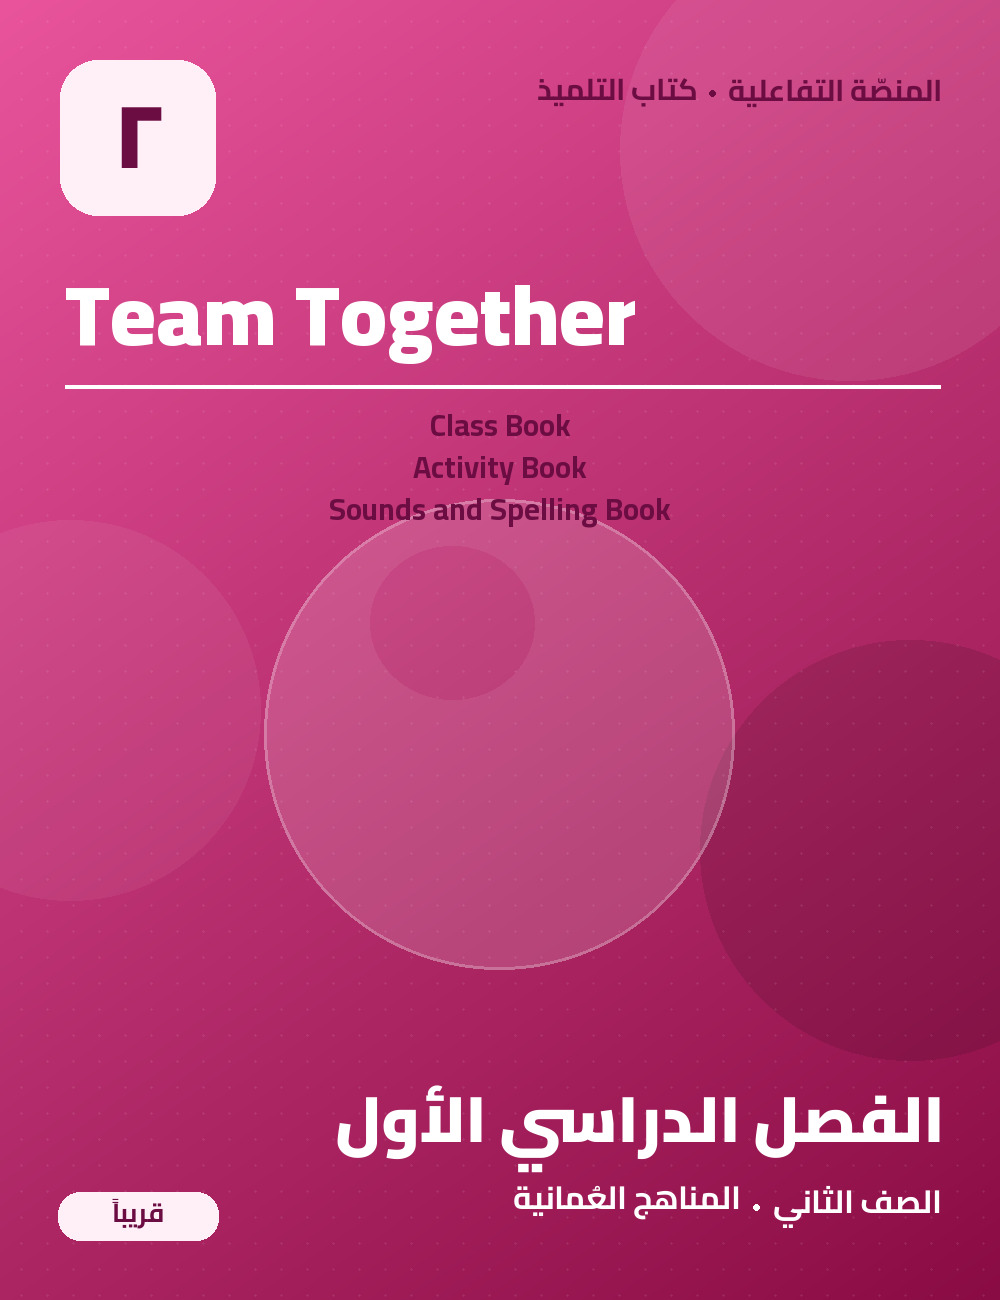
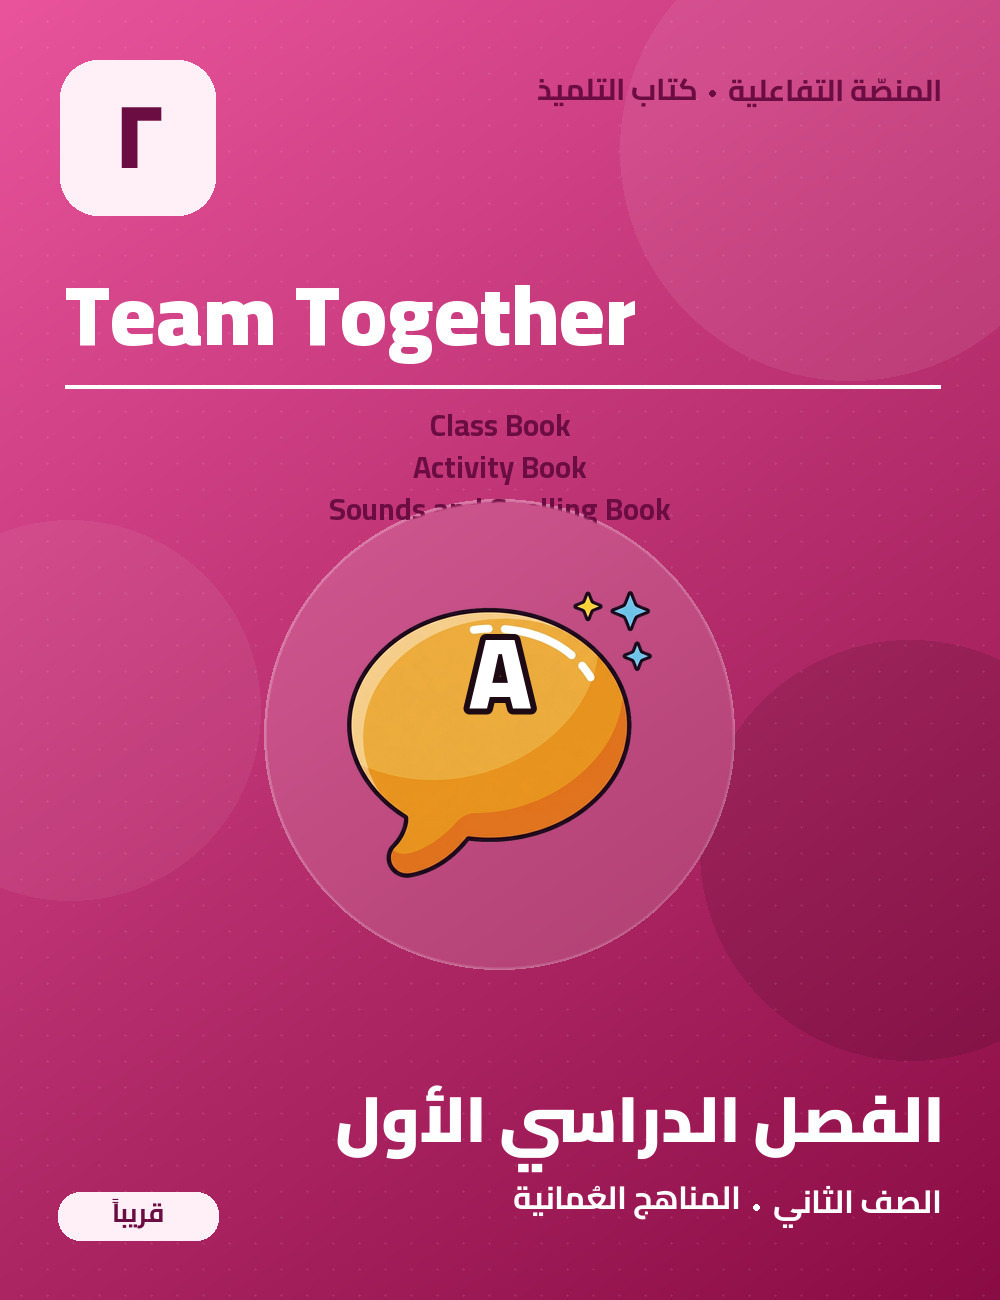
ربط كتاب اللغة الإنجليزية — الصف الثاني بالمنصّة (المرحلتان ٣-٤)
- بطاقة g2-en النهائية: أيقونة فقاعة الحوار مولَّدةٌ بجيميناي ومركَّبةٌ في القرص
  الزجاجي، وحرف A ملحَقٌ محلياً فوقها (كما في g1-en).
- data/books.json وjs/data.js: مدخل الكتاب (لون #D8166C/#AD1156، bk-pink، devOnly).
- css/style.css: صنف bk-pink وخلفية theme-en2 (بنفسجي فضائي + لمسة وردية، مشتقّة
  من لون الكتاب).
- data/index.json وjs/data.js: فهرس الكتاب كاملاً (٧ وحدات، ٣٤ درساً) بحقل
  open:false لكل الدروس — هيكل بانتظار التأليف (المرحلة ٧).
- تحقّق محليّ: البطاقة تظهر صحيحة في وضع المطوّر (الصف الثاني، الفصل الأول)،
  ولا أخطاء في طرفية المتصفح.

Changed region(s): [[0.341, 0.4615, 0.651, 0.6769], [0.434, 0.3692, 0.558, 0.4]]

diff --git a/js/data.js b/js/data.js
@@ -25,7 +25,8 @@ window.DATA_FALLBACK = {
         { key:"g2-arabic-2", band:["#a888c8","#8666a8"], title:"أحب لغتي", term:"الفصل الأول", color:"bk-purple", ic:"🪶", isNew:false, theme:"theme-arabic2b", cover:"images/cover-g2-arabic-2.jpg" },
         { key:"g2-dini-1", band:["#8fa83a","#6d8528"], title:"ديني حياتي", term:"الفصل الأول", color:"bk-green", ic:"🕌", isNew:false, theme:"theme-dini2a", cover:"images/cover-g2-dini-1.jpg" },
         { key:"g2-dini-2", band:["#6d8a2c","#52691c"], title:"ديني حياتي", term:"الفصل الأول", color:"bk-green", ic:"🕌", isNew:false, theme:"theme-dini2b", cover:"images/cover-g2-dini-2.jpg" },
-        { key:"g2-it", band:["#4C9090","#006060"], title:"عالمي الرقمي", term:"الفصل الأول", color:"bk-teal", ic:"💻", isNew:true, onSale:true, theme:"theme-it2", cover:"images/cover-g2-it.jpg" }
+        { key:"g2-it", band:["#4C9090","#006060"], title:"عالمي الرقمي", term:"الفصل الأول", color:"bk-teal", ic:"💻", isNew:true, onSale:true, theme:"theme-it2", cover:"images/cover-g2-it.jpg" },
+        { key:"g2-en", band:["#D8166C","#AD1156"], title:"اللغة الإنجليزية", term:"الفصل الأول", color:"bk-pink", ic:"💬", isNew:true, onSale:false, devOnly:true, theme:"theme-en2", cover:"images/cover-g2-en.jpg" }
       ],
       /* ملاحظة: بطاقة علوم الثالث كانت مفقودة من هذا الاحتياط بينما هي في data/books.json —
          فكان الكتاب يختفي في وضع file:// وحده. أُضيفت هنا مع بطاقات الصف الجديدة. */
@@ -104,6 +105,56 @@ window.DATA_FALLBACK = {
       { unit:"Meg's Learning Club 2", lessons:[
         { title:"Shapes", file:"g1e-lc2-1", open:true },
         { title:"What are these?", file:"g1e-lc2-2", open:true }
+      ]}
+    ] },
+    "g2-en": { book:"اللغة الإنجليزية — الصف الثاني", units:[
+      { unit:"Welcome", lessons:[
+        { title:"Hello!", file:"g2e-0-1", open:false },
+        { title:"Numbers & Colours", file:"g2e-0-2", open:false }
+      ]},
+      { unit:"Look at my toys!", lessons:[
+        { title:"Look at my toys!", file:"g2e-1-1", open:false },
+        { title:"Helpers Team", file:"g2e-1-2", open:false },
+        { title:"Is it a swing?", file:"g2e-1-3", open:false },
+        { title:"Skills", file:"g2e-1-4", open:false },
+        { title:"Project: A toy museum poster", file:"g2e-1-5", open:false },
+        { title:"Sharing your toys", file:"g2e-1-6", open:false },
+        { title:"Review", file:"g2e-1-7", open:false }
+      ]},
+      { unit:"Atomic's Learning Club 1", lessons:[
+        { title:"Language booster 1", file:"g2e-lc1-1", open:false },
+        { title:"Natural Science: Our senses", file:"g2e-lc1-2", open:false }
+      ]},
+      { unit:"Where's my pen?", lessons:[
+        { title:"Where's my pen?", file:"g2e-2-1", open:false },
+        { title:"Helpers Team", file:"g2e-2-2", open:false },
+        { title:"This is my pencil case", file:"g2e-2-3", open:false },
+        { title:"Skills", file:"g2e-2-4", open:false },
+        { title:"Project: A plan of your school", file:"g2e-2-5", open:false },
+        { title:"Borrowing things", file:"g2e-2-6", open:false },
+        { title:"Review", file:"g2e-2-7", open:false }
+      ]},
+      { unit:"Move your body!", lessons:[
+        { title:"Move your body!", file:"g2e-3-1", open:false },
+        { title:"Helpers Team", file:"g2e-3-2", open:false },
+        { title:"Move your body! (2)", file:"g2e-3-3", open:false },
+        { title:"Skills", file:"g2e-3-4", open:false },
+        { title:"Project: A festivals poster", file:"g2e-3-5", open:false },
+        { title:"Paying a compliment", file:"g2e-3-6", open:false },
+        { title:"Review", file:"g2e-3-7", open:false }
+      ]},
+      { unit:"Meet my family", lessons:[
+        { title:"Meet my family", file:"g2e-4-1", open:false },
+        { title:"Helpers Team", file:"g2e-4-2", open:false },
+        { title:"My face", file:"g2e-4-3", open:false },
+        { title:"Skills", file:"g2e-4-4", open:false },
+        { title:"Project: A description of a picture", file:"g2e-4-5", open:false },
+        { title:"Introducing family and friends", file:"g2e-4-6", open:false },
+        { title:"Review", file:"g2e-4-7", open:false }
+      ]},
+      { unit:"Atomic's Learning Club 2", lessons:[
+        { title:"Language booster 2", file:"g2e-lc2-1", open:false },
+        { title:"Social Studies: In my town", file:"g2e-lc2-2", open:false }
       ]}
     ] },
     "g1-sci": { book:"العلوم — الصف الأول", units:[

diff --git a/css/style.css b/css/style.css
@@ -73,6 +73,9 @@
   /* خلفية اللغة الإنجليزية الأول — بنفسجي داكن بلمسة ذهبية خفيفة (مشتقّة من band الكتاب) */
   body.theme-en1{
     background:linear-gradient(180deg,#20243f 0%,#474434 32%,#6f642a 65%,#9a871e 100%)}
+  /* خلفية اللغة الإنجليزية الثاني — بنفسجي داكن بلمسة وردية/فوشية خفيفة (مشتقّة من band الكتاب) */
+  body.theme-en2{
+    background:linear-gradient(180deg,#20243f 0%,#431f45 32%,#6d1a4c 65%,#bc1865 100%)}
 
   /* ── خلفيات الكتب المضافة (رياضيات الثالث · أحب لغتي ١–٣ · ديني حياتي ١–٣) ──
      مشتقّة حسابياً من لون بطاقة كل كتاب: البداية بنفسجي الفضاء #20243f، والنهاية
@@ -306,6 +309,7 @@
     --bk-purple-a:#a07fd8; --bk-purple-b:#7f5cc0;
     --bk-teal-a:#4bb3ab;   --bk-teal-b:#33978f;
     --bk-yellow-a:#F6D000; --bk-yellow-b:#C5A600;
+    --bk-pink-a:#D8166C;   --bk-pink-b:#AD1156;
   }
   .bk-red{background:linear-gradient(145deg,var(--bk-red-a),var(--bk-red-b))}
   .bk-yellow{background:linear-gradient(145deg,var(--bk-yellow-a),var(--bk-yellow-b))}
@@ -313,6 +317,7 @@
   .bk-orange{background:linear-gradient(145deg,var(--bk-orange-a),var(--bk-orange-b))}
   .bk-blue{background:linear-gradient(145deg,var(--bk-blue-a),var(--bk-blue-b))}
   .bk-purple{background:linear-gradient(145deg,var(--bk-purple-a),var(--bk-purple-b))}
+  .bk-pink{background:linear-gradient(145deg,var(--bk-pink-a),var(--bk-pink-b))}
   .bk-teal{background:linear-gradient(145deg,var(--bk-teal-a),var(--bk-teal-b))}
   .empty{grid-column:1/-1;text-align:center;color:#b8aee5;padding:50px;font-size:1.05rem}
 
